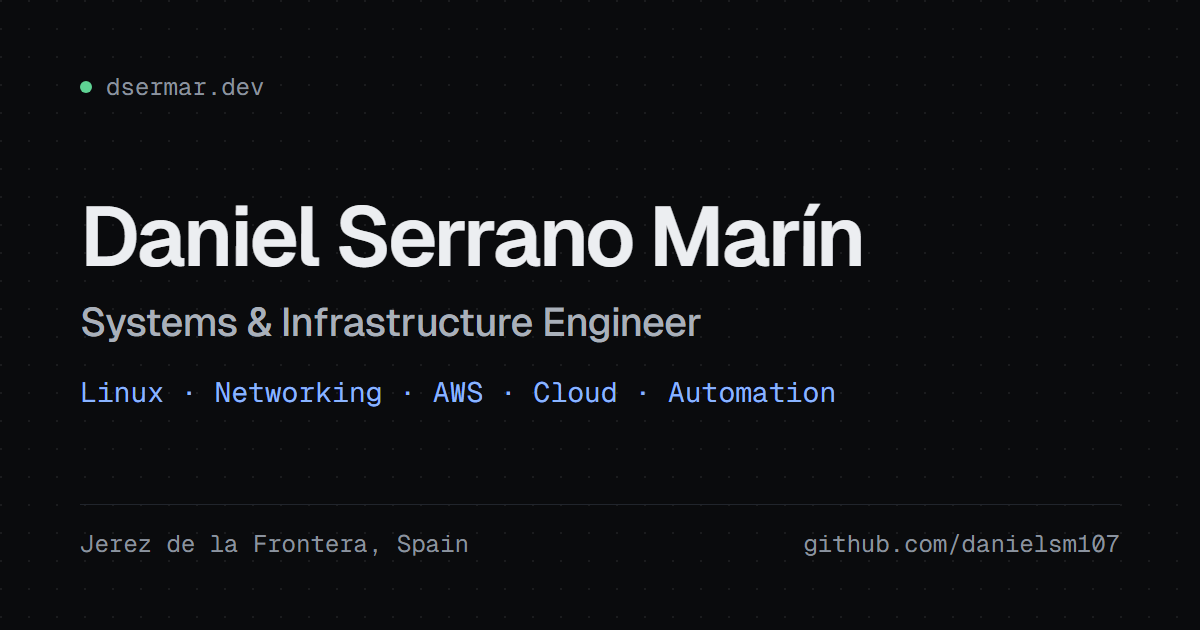
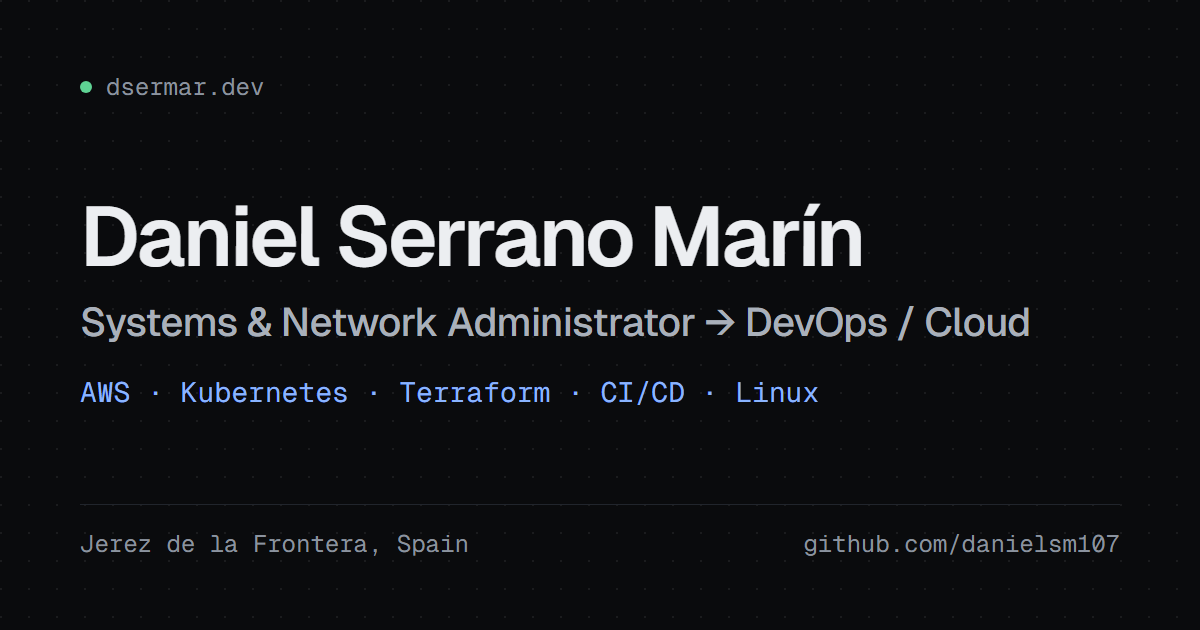
OG image with the DevOps/Cloud headline; LinkedIn texts keep the profile's richer job details

Changed region(s): [[0.2467, 0.4825, 0.8633, 0.5429], [0.0617, 0.6032, 0.7092, 0.6635]]

diff --git a/_src/og/og.html b/_src/og/og.html
@@ -9,6 +9,6 @@ h1{font-size:84px;letter-spacing:-.04em;line-height:1;margin:0;font-weight:600}
 .foot{display:flex;justify-content:space-between;font-family:GM;font-size:24px;color:#8b939f;border-top:1px solid #21252c;padding-top:24px}
 </style></head><body>
 <div class="top"><span class="dot"></span>dsermar.dev</div>
-<div><h1>Daniel Serrano Marín</h1><div class="role">Systems &amp; Infrastructure Engineer</div><div class="stack">Linux · Networking · AWS · Cloud · Automation</div></div>
+<div><h1>Daniel Serrano Marín</h1><div class="role">Systems &amp; Network Administrator → DevOps / Cloud</div><div class="stack">AWS · Kubernetes · Terraform · CI/CD · Linux</div></div>
 <div class="foot"><span>Jerez de la Frontera, Spain</span><span>github.com/danielsm107</span></div>
 </body></html>

diff --git a/_docs/linkedin.md b/_docs/linkedin.md
@@ -1,5 +1,9 @@
 # Textos de LinkedIn (2026-11-17)
 
+> Experiencia: integra los detalles que ya tenía el perfil (VLANs, VPC con subredes públicas/privadas,
+> ciclo de vida de EC2, VPN site-to-site de su publicación). PENDIENTE: confirmar con Daniel el bullet
+> del backup de centralitas ("diseñé… más de 10 clientes" frente a "participé en la migración de una").
+
 Perfil principal en español; perfil secundario en inglés
 (Perfil → "Añadir perfil en otro idioma"). Mismos datos que el CV y el portfolio.
 
@@ -30,11 +34,11 @@ Portfolio: https://dsermar.dev
 
 ### Experiencia → Cadifone · Administrador de Sistemas y Redes (oct. 2024 – actualidad)
 
-• Mantengo la disponibilidad y la seguridad de redes corporativas MikroTik (routing, segmentación) y firewalls Fortinet de más de 35 clientes.
-• Implemento y gestiono acceso remoto seguro por VPN (WireGuard, SSTP).
+• Mantengo la disponibilidad y la seguridad de redes corporativas MikroTik (routing, segmentación con VLANs) y firewalls Fortinet (control de tráfico, seguridad perimetral) de más de 35 clientes.
+• Implemento y gestiono acceso remoto seguro por VPN (WireGuard, SSTP) y VPN site-to-site entre sedes.
 • Diseñé un sistema de backup automatizado en AWS para las centralitas (Issabel) de más de 10 clientes, migrando su infraestructura desde on-premises.
-• Despliego y administro servidores Linux en AWS EC2, configurando VPC, NACLs y Security Groups.
-• Automatizo tareas de infraestructura con Bash y AWS Lambda, programadas con EventBridge; monitorización con CloudWatch (logs, métricas y alertas).
+• Diseño la arquitectura VPC (subredes públicas y privadas) y despliego y administro servidores Linux en EC2, con NACLs y Security Groups.
+• Automatizo tareas de administración con Bash y el ciclo de vida de instancias EC2 con AWS Lambda y EventBridge; monitorización con CloudWatch (logs, métricas y alertas) y resolución de incidencias.
 • Gestiono y despliego aplicaciones con Docker; administro dispositivos con Microsoft Entra ID e Intune.
 
 Aptitudes de este puesto: AWS · Linux · MikroTik · Fortinet · Docker · Bash
@@ -89,11 +93,11 @@ Portfolio: https://dsermar.dev
 
 ### Experience → Cadifone · Systems & Network Administrator (Oct 2024 – Present)
 
-• Keep corporate MikroTik networks (routing, segmentation) and Fortinet firewalls available and secure for 35+ clients.
-• Implement and manage secure remote access over VPN (WireGuard, SSTP).
+• Keep corporate MikroTik networks (routing, VLAN segmentation) and Fortinet firewalls (traffic control, perimeter security) available and secure for 35+ clients.
+• Implement and manage secure remote access over VPN (WireGuard, SSTP) and site-to-site VPNs between offices.
 • Designed an automated AWS backup system for the Issabel PBX systems of 10+ clients, migrating their infrastructure from on-premises.
-• Deploy and administer Linux servers on AWS EC2, configuring VPC, NACLs and Security Groups.
-• Automate infrastructure tasks with Bash and AWS Lambda scheduled through EventBridge; CloudWatch monitoring for logs, metrics and alerts.
+• Design VPC architecture (public and private subnets) and deploy and administer Linux servers on EC2, with NACLs and Security Groups.
+• Automate admin tasks with Bash and the EC2 instance lifecycle with AWS Lambda and EventBridge; CloudWatch monitoring (logs, metrics, alerts) and incident resolution.
 • Manage and deploy applications with Docker; administer devices with Microsoft Entra ID and Intune.
 
 ### Projects → Network Topology Scanner + self-hosted DevOps platform (2026 – Present)
